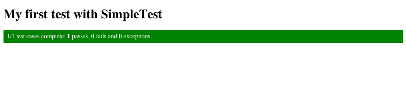
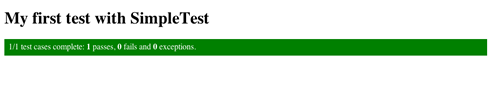
New images for the web test cases and little changes on the css file
git-svn-id: https://simpletest.svn.sourceforge.net/svnroot/simpletest/trunk/simpletest@1434 9ad96551-d73f-0410-9433-afe301b4b3ac

Changed region(s): [[0.0, 0.42, 1.0, 0.54], [0.0, 0.3, 1.0, 0.39], [0.0, 0.09, 0.4433, 0.27]]

diff --git a/docs/website/simpletest.css b/docs/website/simpletest.css
@@ -4,8 +4,8 @@ img { border : 0; }
 
 #logo { margin-bottom : 20px; }
 #actions { position : absolute; top : 20px; left : 20px; width : 335px; }
-#content { position : absolute; top : 20px; left : 390px; width : 450px; }
-#news { border : 2px solid #009933; padding : 1em; font-weight : bold; font-size : 18pt; }
+#content { position : absolute; top : 20px; left : 390px; width : 560px; }
+#news { border : 2px solid #009933; padding : 20px; font-weight : bold; font-size : 18pt; width : 451px; }
 #news a { color : #009933; }
 
 .screenshot { border : 1px solid #cccccc;}
